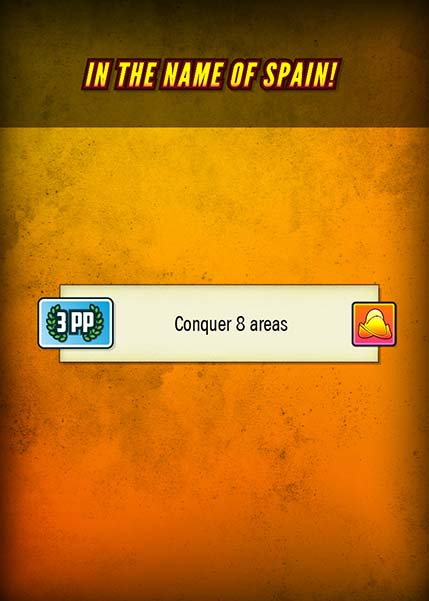
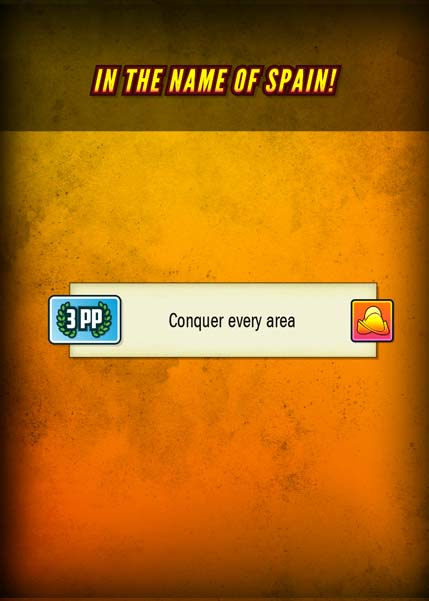
CONQUISTADORS: Make all plans work in 3 player game

diff --git a/server/classes/planTests/conquerEveryAreaTest.js b/server/classes/planTests/conquerEveryAreaTest.js
@@ -1,0 +1,24 @@
+/**
+ * Has this faction conquered x areas?
+ *
+ * @param debug
+ * @param faction
+ * @param areaCount
+ * @returns {boolean}
+ */
+const test = function conquerEveryArea( debug, faction ){
+    let factionAreasConquered = faction.data.conqueredAreas.length;
+    let areaCount = faction.game().data.playerOrder.length === 3 ? 7 : 9; // we need all areas, so 7 in 3player game 9 otherwise
+    let result = factionAreasConquered >= areaCount;
+
+    if( debug ) console.log(
+        'conquerEveryArea ---',
+        'areaCount req:', areaCount,
+        'factionAreasConquered:', factionAreasConquered,
+        'result:', result
+    );
+
+    return result;
+};
+
+module.exports = test;

diff --git a/server/classes/factions/plans/conquistadorsPlans.js b/server/classes/factions/plans/conquistadorsPlans.js
@@ -25,7 +25,7 @@ let obj = [
         objectives : [
             {
                 requirements : [
-                    { test : 'conquerAreas', args : [8] },
+                    { test : 'conquerEveryArea', args : [] },
                 ],
                 value : 3
             },
